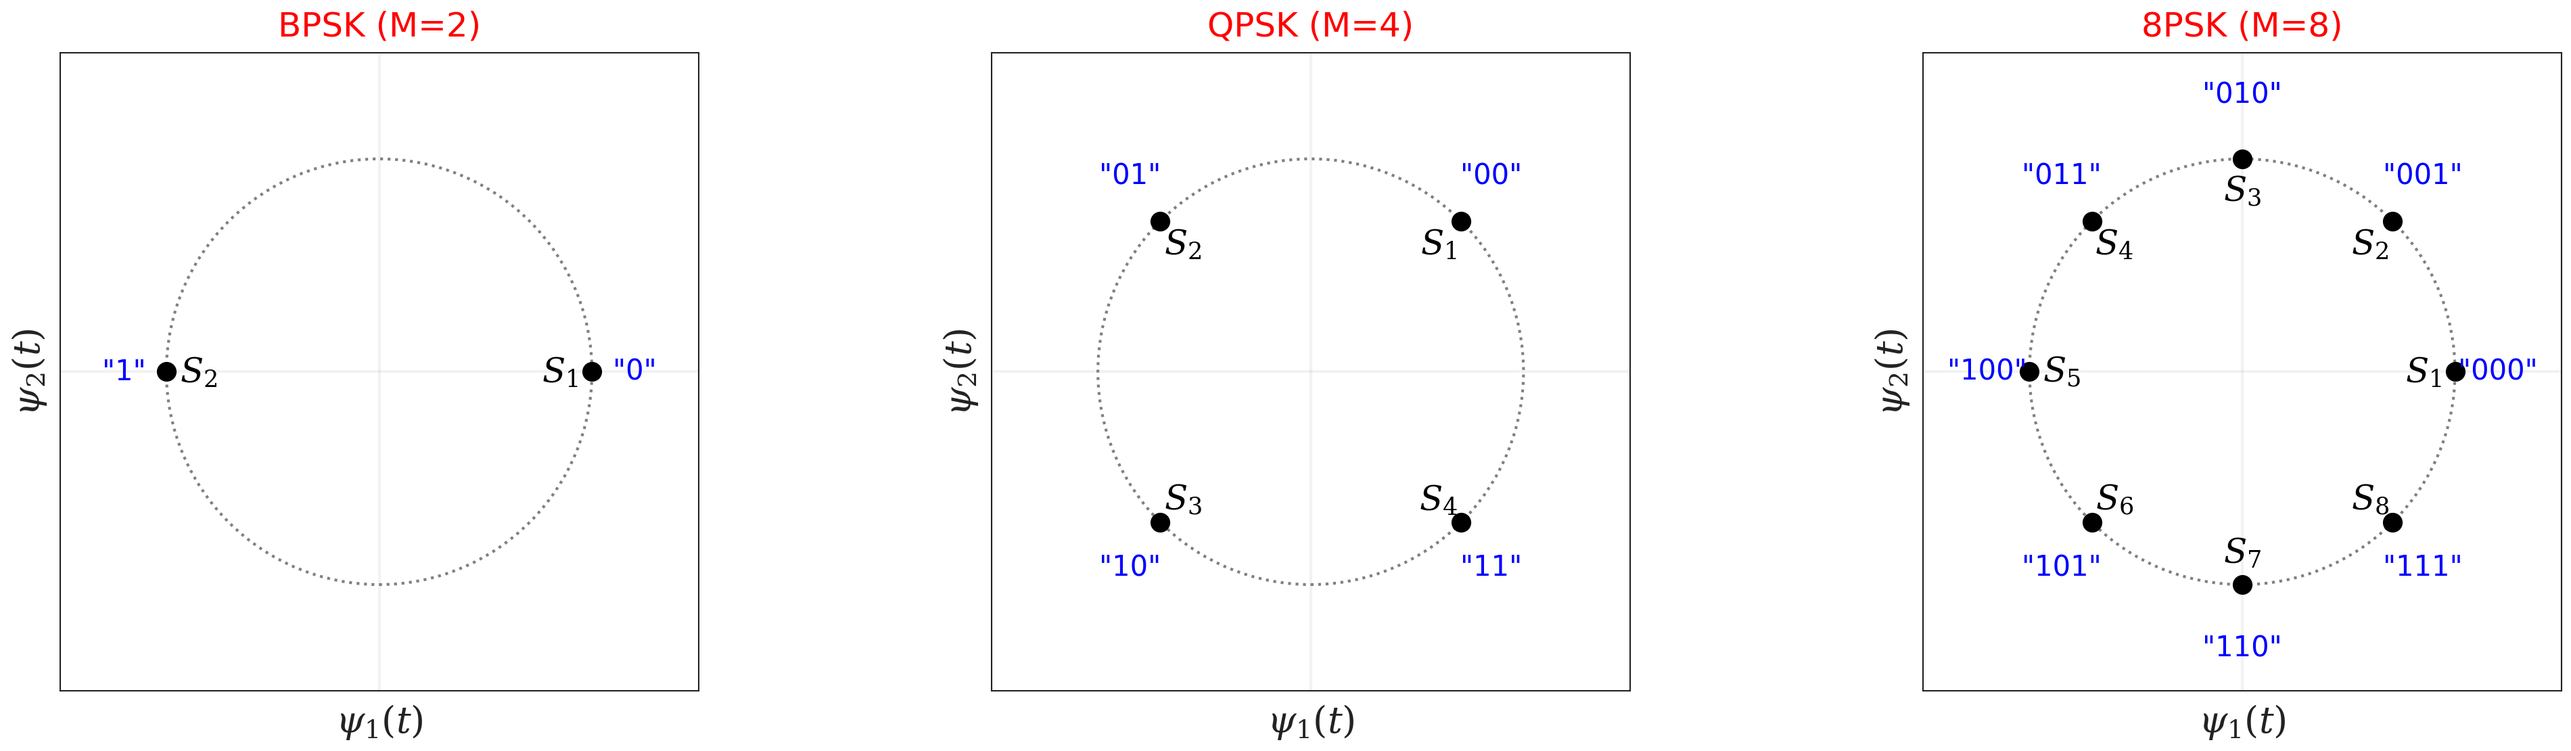
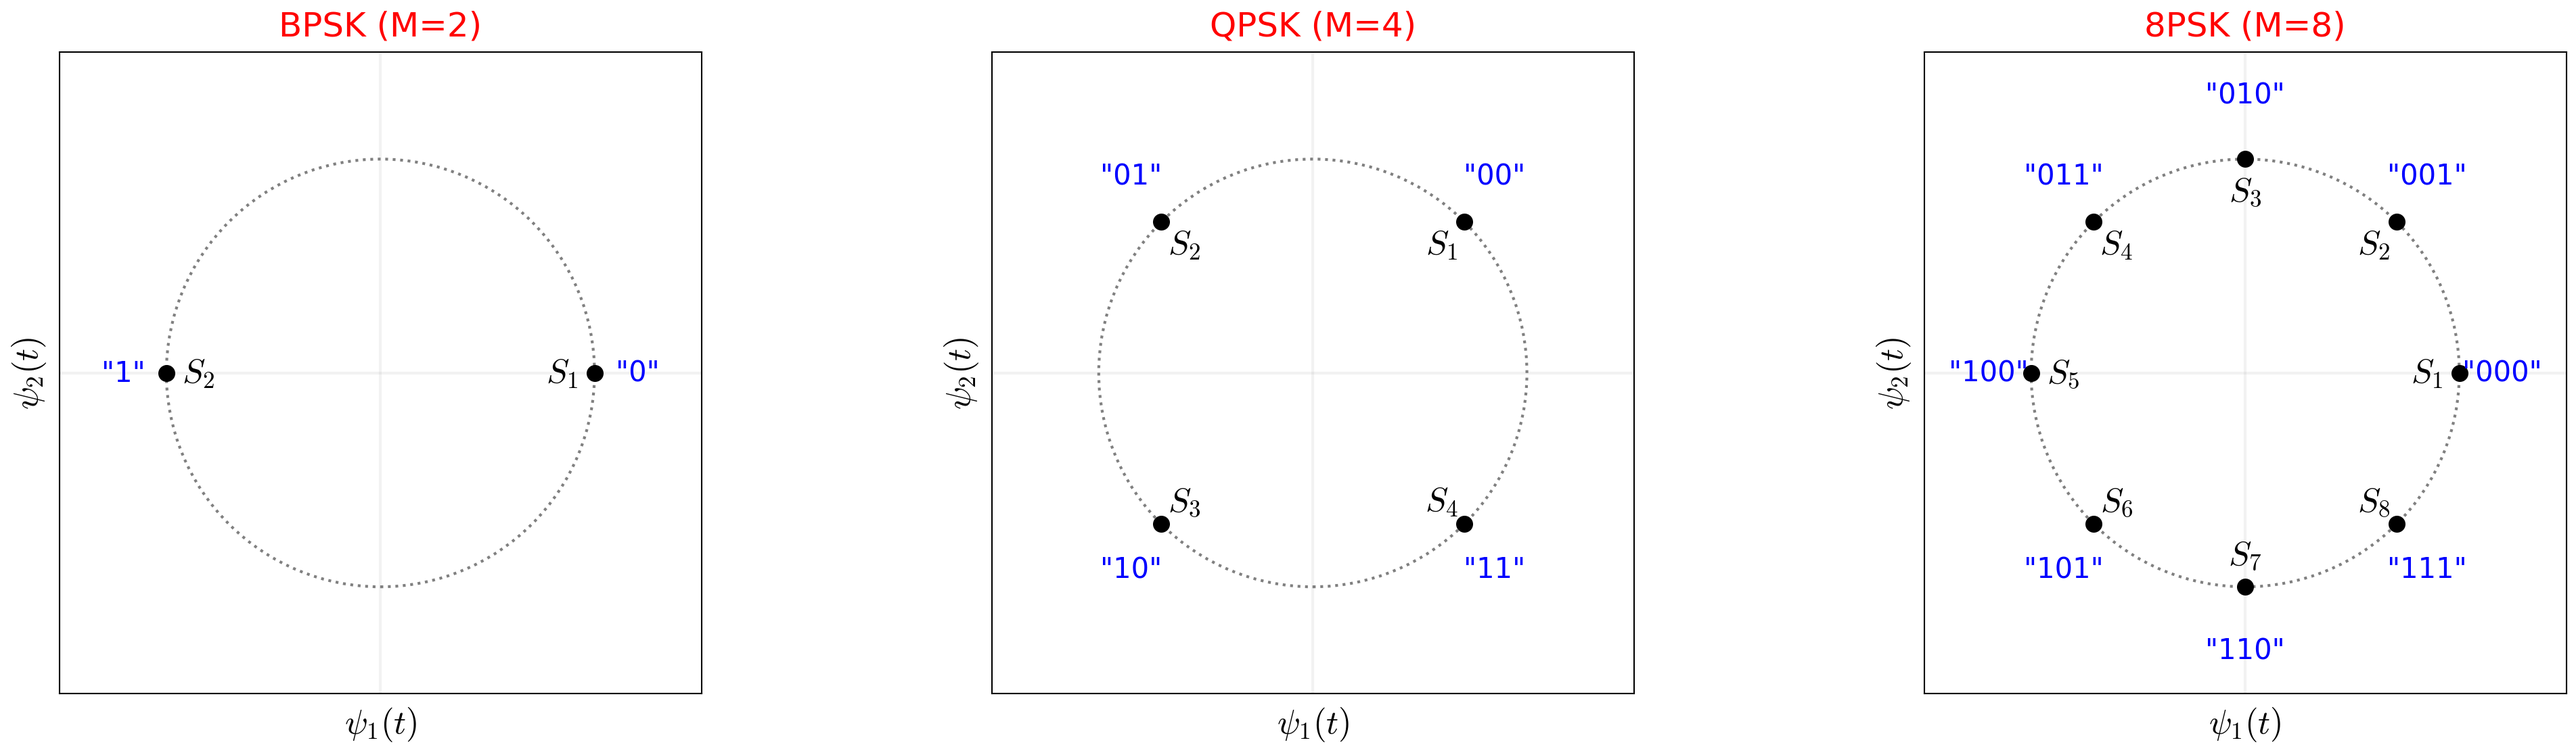
style modification

diff --git a/src/m_psk.py b/src/m_psk.py
@@ -3,7 +3,7 @@ import matplotlib.pyplot as plt
 from styles import set_plot_style
 import scienceplots
 
-set_plot_style("prism_rain")
+set_plot_style("ink_sketch")
 
 def plot_psk_constellation(M, title, ax, radius=1.0, rotation=0.0):
     """Plot an M-PSK constellation diagram with optional rotation (in radians)."""
@@ -52,3 +52,38 @@ plot_psk_constellation(8, '8PSK', axs[2], radius=1.0)
 plt.tight_layout()
 plt.savefig("figures/m_psk.png", dpi = 300)
 #plt.show()
+
+
+
+# Data
+freq = [230, 245, 260, 275, 290, 305, 320, 335, 350, 365, 380, 395, 410, 425, 440, 455, 470, 485, 500, 515, 530]
+ber  = [4.823e-3, 6.2525e-6, 4.6417e-1, 5.0345e-1, 3.4222e-1, 5.0170e-1,
+        2.6596e-3, 3.6168e-3, 1.8685e-1, 6.8454e-3, 4.2883e-3, 7.5347e-5,
+        2.6213e-5, 3.5779e-5, 1.0752e-4, 1.2298e-4, 9.5208e-6, 1.7036e-4,
+        1.7193e-4, 2.0001e-6, 4.7379e-4]
+
+# Plot
+plt.figure(figsize=(9, 3))
+plt.semilogy(freq, ber, marker='D', linestyle='--')
+#plt.title('BER vs Frequency')
+plt.xlabel('Frequency (MHz)')
+plt.ylabel('BER (log scale)')
+#plt.grid(True, which="both", ls="--", lw=0.5)
+plt.tight_layout()
+plt.savefig("figures/ber_frec_experimental.png", dpi = 300)
+
+import matplotlib.pyplot as plt
+
+# Data
+cci_db = [40, 45, 50, 55, 60, 65, 70]
+ber =    [5.16798e-6, 4.1187e-5, 5.1755e-2, 
+          8.2407e-2, 1.2427e-1, 2.2221e-1, 4.9767e-1]
+
+# Plot
+plt.figure(figsize=(8, 4))
+plt.semilogy(cci_db, ber, marker='D', linestyle='-', linewidth=1.5)
+plt.xlabel('Ganancia interferidor (dB)')
+plt.ylabel('BER (log scale)')
+#plt.grid(True, which='both', linestyle='--', linewidth=0.5)
+plt.tight_layout()
+plt.savefig("figures/interference_experimental.png", dpi = 300)

diff --git a/src/styles.py b/src/styles.py
@@ -306,7 +306,7 @@ STYLE_CONFIGS = {
             "axes.facecolor": "#ffffff",
             "savefig.facecolor": "#ffffff",
             "font.family": "serif",
-            "font.serif": ["Computer Modern Roman", "Times New Roman"],
+            "font.serif": ["Arial", "DejaVu Sans"],
             "mathtext.fontset": "cm",
             "font.size": 11,
             "axes.labelsize": 12,
